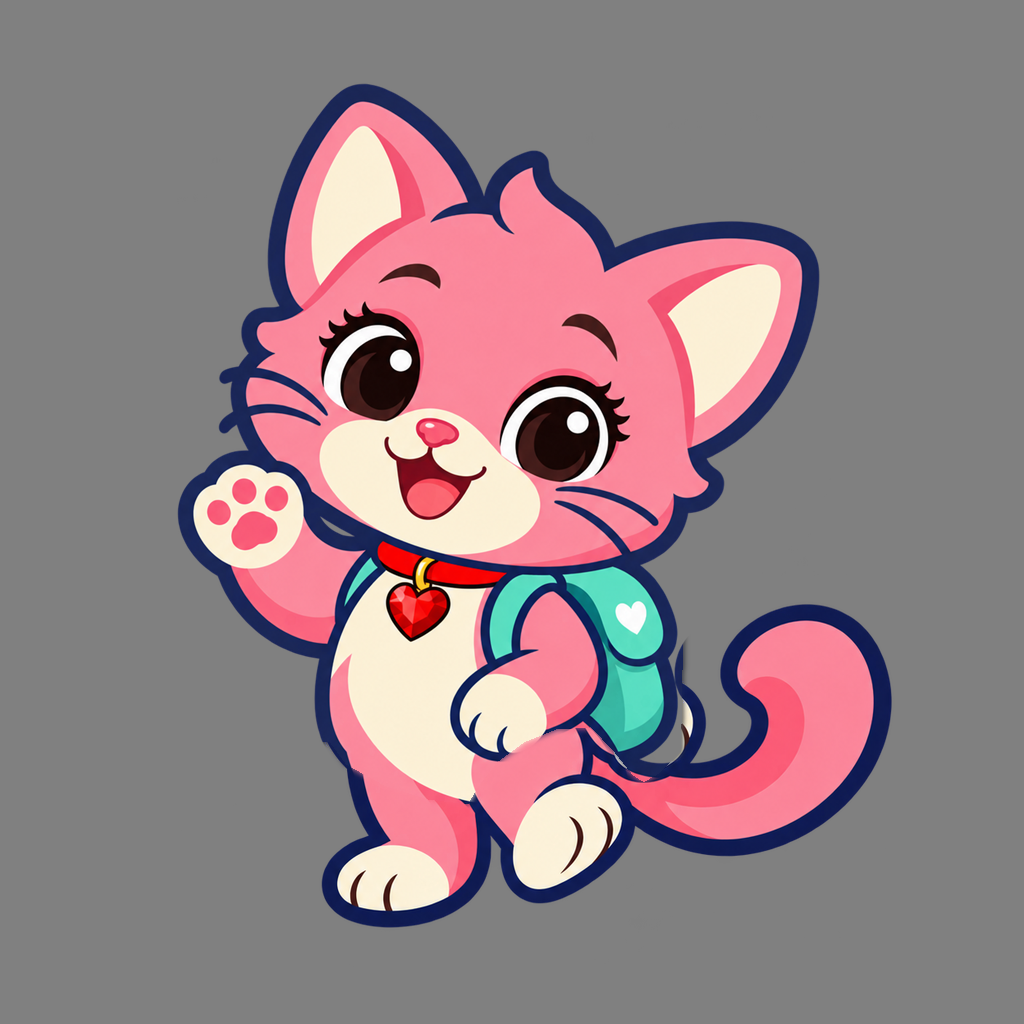
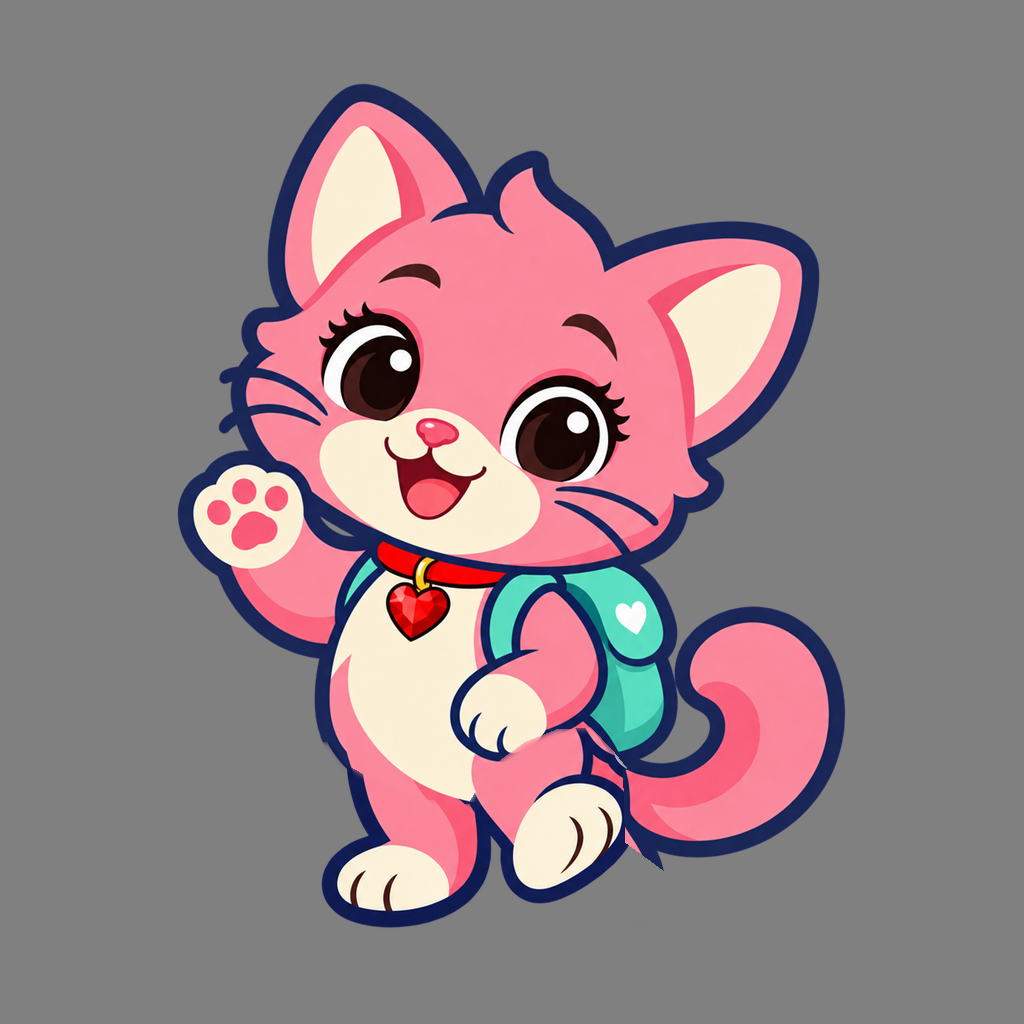
Ruby's feet stay on the floor (min 74%)

Changed region(s): [[0.5938, 0.5938, 0.875, 0.8438]]

diff --git a/js/home.js b/js/home.js
@@ -29,10 +29,12 @@ function homePlace(state,id,x,y){
 }
 function homeStore(state,id){state.room=state.room.filter(it=>it.id!==id)}
 let homeState,houseTab='wardrobe',shopOpener=null,roomWalker=null;
+// 房間地板從 64% 開始（見 .room-scene 背景），腳至少要在 74% 才會看起來踩在地板上
+const ROOM_FLOOR_MIN=74;
 // x is Ruby's horizontal centre; y is her feet, measured from the top.
 function roomRubyTarget(x,y,width=26,height=40){
   // Leave room for the rotated waddle and accessories above her head.
-  const half=Math.min(49,width*.62+1),top=Math.min(98,Math.max(55,height*1.18+1));
+  const half=Math.min(49,width*.62+1),top=Math.min(98,Math.max(ROOM_FLOOR_MIN,height*1.18+1));
   return {x:Math.max(half,Math.min(100-half,Number.isFinite(x)?x:25)),
     y:Math.max(top,Math.min(98,Number.isFinite(y)?y:92))};
 }
@@ -156,7 +158,7 @@ function walkRoomRuby(scene,ruby,content){
   };
   const idle=roomIdle(()=>{
     if(held.size||document.hidden||!$('#houseShop').hidden){idle.reset();return}
-    walk(Math.random()*100,55+Math.random()*43);idle.reset();
+    walk(Math.random()*100,ROOM_FLOOR_MIN+Math.random()*(98-ROOM_FLOOR_MIN));idle.reset();
   });
   const resize=()=>{
     stop();const w=scene.clientWidth,h=scene.clientHeight;

diff --git a/sw.js b/sw.js
@@ -1,5 +1,5 @@
 // Before every deploy run: node scripts/bump-sw.mjs
-const SW_VERSION = '20261023T063854210Z';
+const SW_VERSION = '20261023T064055470Z';
 const CACHE_PREFIX = 'ruby-pwa-';
 const CACHE_NAME = CACHE_PREFIX + SW_VERSION;
 const APP_SHELL = [

diff --git a/DECISIONS.md b/DECISIONS.md
@@ -6,7 +6,6 @@
 （目前沒有待決定的事。任務 11～15 進行中）
 
 ## 試玩回饋（隨時可寫）
-
 網站：https://stntkero.github.io/RubyGame/
 
 處理中：
@@ -14,6 +13,7 @@
 - 皇冠位置、圍巾像貼紙：改成「穿在露比身上」的圖層（任務 23，Codex 畫圖中）
 
 已處理：
+- 露比走路不會再走到牆上，腳一定踩在地板範圍內
 - 家具大小改成以露比為基準（床比露比大、球和盆栽比較小）
 - 碗上的圈圈只在最簡單的第一關淡淡顯示；拼圖下方多出的條紋已移除
 - 碗裡的魚不再有圓圈底；魚放太多時會說「太多了，拿回去 X 條」
